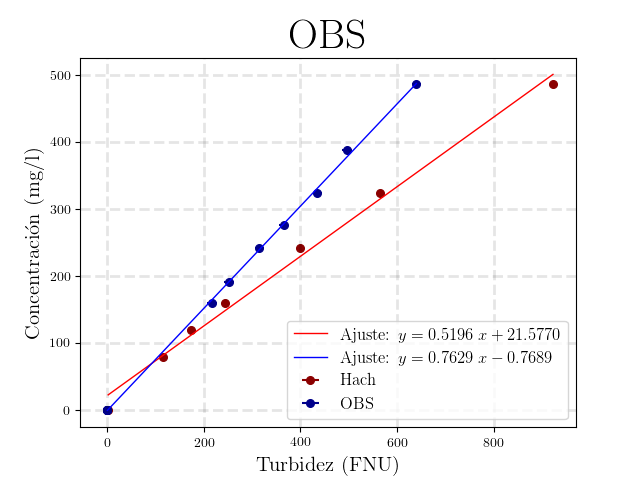
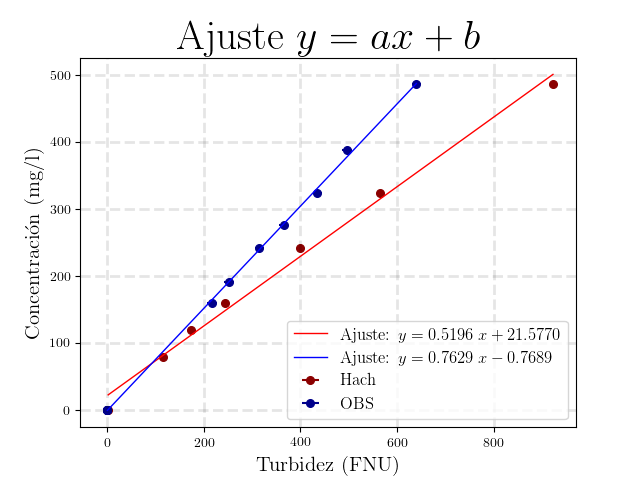
Avances en el ajuste que contempla los errores en x y en y. Falta terminar.

Changed region(s): [[0.2812, 0.0312, 0.6875, 0.125], [0.7188, 0.0312, 0.75, 0.0938]]

diff --git a/ConcentrationTurbidity-OBS.py b/ConcentrationTurbidity-OBS.py
@@ -8,6 +8,7 @@ import pandas as pd
 import numpy as np
 import matplotlib.pyplot as plt
 from scipy.optimize import curve_fit
+from scipy.odr import Model,RealData,ODR
 from matplotlib.ticker import AutoMinorLocator
 
 path = os.path.dirname(os.path.realpath('__file__'))
@@ -26,6 +27,18 @@ plt.rc('font', family='serif')
 
 #%%
 
+def Ajustar(function,x,y,x_err,y_err):
+        # Create a model for fitting.
+    model = Model(function)
+    # Create a RealData object using our initiated data from above.
+    D = RealData(x, y, sx=x_err, sy=y_err)
+    # Set up ODR with the model and data.
+    odr = ODR(D, model, beta0=[0., 1.])
+    # Run the regression.
+    out = odr.run()
+    # Use the in-built pprint method to give us results.
+    out.pprint()
+
 archivos=['ConcentrationTurbidity-OBS'] # Por si queremos agregar más archivos después.
 
 for s in archivos:
@@ -42,9 +55,9 @@ for s in archivos:
     x = np.array(x)
     #x = x[:12,:]   # no tiene sentido seguir haciéndolo, porque  dropna() ya le sacó las nulas.
     
-    x_med=np.zeros(len(x))
-    x_err=np.zeros((2,len(x)))
-    x_err_tot=np.zeros(len(x))
+    x_Hach=np.zeros(len(x))
+    x_Hach_err=np.zeros((2,len(x)))
+    x_Hach_err_tot=np.zeros(len(x))
     
     x_OBS_df = pd.DataFrame(data, columns= ['SS'])
     x_OBS_df = np.array(x_OBS_df)
@@ -52,31 +65,41 @@ for s in archivos:
     
     y_OBS=np.zeros(len(y_df))
     x_OBS=np.zeros(len(y_df))
-    xerr_OBS=10*np.ones(len(x_OBS))
+    x_OBS_err=10*np.ones(len(x_OBS))
     
     y_Hach=[486.0606061, 324.040404, 241.0703812, 158.9673315, 118.9453447, 79.11100286, 0] # A mano. Ya fue.
+    y_Hach_err=np.zeros(len(y_Hach))    # FALTA AGREGAR LOS ERRORES.
     
     for i in range(len(x)):
-       x_med[i]=np.median(x[i])
-       x_err[0,i]=x_med[i] - np.min(x[i])
-       x_err[1,i]=np.max(x[i]) - x_med[i]
-       x_err_tot[i]=x_err[1,i] - x_err[0,i]
-       y_OBS[i]=y_df[i] # Esto parece que no tiene sentido pero es para arreglar la dimensión de y. Size(y_df)=(26,1) y Size(y)=(26,).
+       x_Hach[i]=np.median(x[i])
+       x_Hach_err[0,i]=x_Hach[i] - np.min(x[i])
+       x_Hach_err[1,i]=np.max(x[i]) - x_Hach[i]
+       x_Hach_err_tot[i]=x_Hach_err[1,i] - x_Hach_err[0,i]
+       
+       y_OBS[i]=y_df[i]
        x_OBS[i]= x_OBS_df[i]
        
     # Ajuste:
     
-    def modelo(x, a, b):
+    def lineal_con_offset(x, a, b):
         return a*x+ b
     
-    #parametros_iniciales_Hach  = [0.5,0]
-    #parametros_iniciales_OBS  = [0.5,0]
+    def lineal(x, a):
+        return a*x
     
+    Ajustar(lineal_con_offset(x_Hach),x_Hach,y_Hach,x_Hach_err,y_Hach_err)
+    '''
     popt_Hach, pcov_Hach = curve_fit(modelo, x_med, y_Hach, p0=None)    
     popt_OBS, pcov_OBS = curve_fit(modelo, x_OBS, y_OBS, p0=None)
     
+    popt_Hach_real, pcov_Hach_real = curve_fit(modelo_real, x_med, y_Hach, p0=None)    
+    popt_OBS_real, pcov_OBS_real = curve_fit(modelo_real, x_OBS, y_OBS, p0=None)
+    
     pstd_Hach = np.sqrt(np.diag(pcov_Hach))
     pstd_OBS = np.sqrt(np.diag(pcov_OBS))
+    
+    pstd_Hach_real = np.sqrt(np.diag(pcov_Hach_real))
+    pstd_OBS_real = np.sqrt(np.diag(pcov_OBS_real))
     
     
     nombres_de_param = ['a', 'b']
@@ -89,6 +112,21 @@ for s in archivos:
     for c, v in enumerate(popt_OBS):
         print('%s = %5.4f ± %5.4f' % (nombres_de_param[c], v, pstd_OBS[c]/2))
     
+    nombres_de_param_reales = ['a']
+
+    print('\nResultado del ajuste (Hach):\n')
+    for c, v in enumerate(popt_Hach_real):
+        print('%s = %5.4f ± %5.4f' % (nombres_de_param_reales[c], v, pstd_Hach_real[c]/2))
+    
+    print('\nResultado del ajuste (OBS):\n')
+    for c, v in enumerate(popt_OBS_real):
+        print('%s = %5.4f ± %5.4f' % (nombres_de_param_reales[c], v, pstd_OBS_real[c]/2))
+    '''
+    #####################################
+    # Gráfico del ajuste ax+b:
+    
+    plt.figure()
+    
     plt.errorbar(x_med, y_Hach, xerr=x_err, yerr=None, fmt='o',color='darkred', label=r'Hach', ms=5.5, zorder=0)
     plt.plot(x_med, modelo(x_med, *popt_Hach), color='red', label=r'Ajuste: $y = %.4f \; x + %.4f $'%(popt_Hach[0],popt_Hach[1]), lw=1, zorder=4)
 
@@ -99,12 +137,32 @@ for s in archivos:
     plt.tick_params(axis='both', which='major', labelsize=NumberSize)
     plt.xlabel(r'Turbidez (FNU)', fontsize=AxisLabelSize)
     plt.ylabel(r'Concentraci\'on (mg/l)', fontsize=AxisLabelSize)
-    plt.title(r'OBS', fontsize=TitleSize)
+    plt.title(r'Ajuste $y=ax+b$', fontsize=TitleSize)
     plt.legend(loc='best', fontsize=LegendSize)
     plt.grid(axis='both', color='k', linestyle='dashed', linewidth=2, alpha=0.1)
     plt.show()
     plt.savefig(path+'/'+s+'.png')
+    
+    #####################################
+    # Gráfico del ajuste ax:
+    
+    plt.figure()
+    
+    plt.errorbar(x_med, y_Hach, xerr=x_err, yerr=None, fmt='o',color='darkred', label=r'Hach', ms=5.5, zorder=0)
+    plt.plot(x_med, modelo_real(x_med, *popt_Hach_real), color='red', label=r'Ajuste: $y = %.4f \; x$'%(popt_Hach_real[0]), lw=1, zorder=4)
 
+    plt.errorbar(x_OBS, y_OBS, xerr=xerr_OBS, yerr=None, fmt='o', color='darkblue', label=r'OBS', ms=5.5, zorder=0)
+    plt.plot(x_OBS, modelo_real(x_OBS, *popt_OBS_real),  color='blue', label=r'Ajuste: $y = %.4f \; x$'%(popt_OBS_real[0]), lw=1, zorder=4)
+
+
+    plt.tick_params(axis='both', which='major', labelsize=NumberSize)
+    plt.xlabel(r'Turbidez (FNU)', fontsize=AxisLabelSize)
+    plt.ylabel(r'Concentraci\'on (mg/l)', fontsize=AxisLabelSize)
+    plt.title(r'Ajuste $y=ax$', fontsize=TitleSize)
+    plt.legend(loc='best', fontsize=LegendSize)
+    plt.grid(axis='both', color='k', linestyle='dashed', linewidth=2, alpha=0.1)
+    plt.show()
+    plt.savefig(path+'/'+s+'real.png')
 
 #%% Gráfico
 '''

diff --git a/Scalars.py b/Scalars.py
@@ -20,7 +20,7 @@ NumberSize=10
 
 plt.close('all')
 
-plt.rc('text', usetex=False)
+plt.rc('text', usetex=True)
 plt.rc('font', family='serif')
 
 
